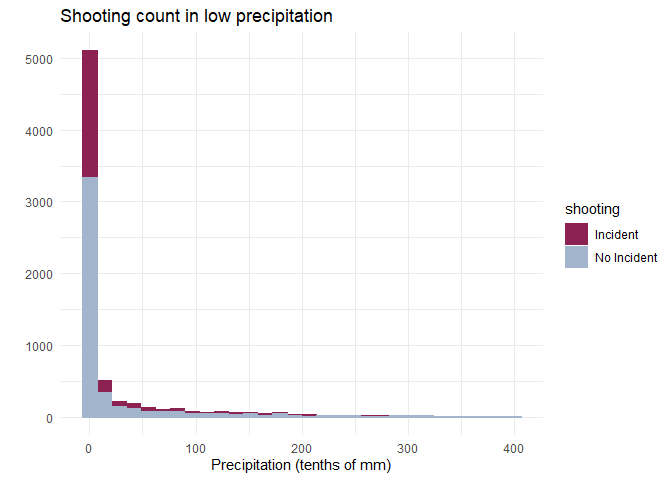
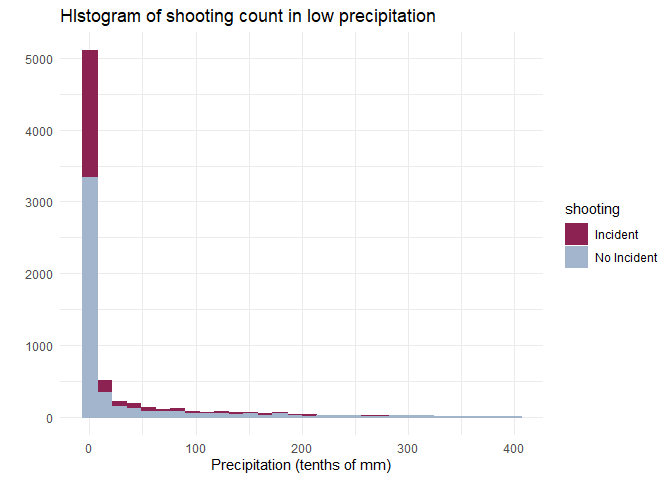
ainsel; edits based on babushka feedback lol

Changed region(s): [[0.0938, 0.0, 0.6562, 0.0625]]

diff --git a/Ainsel_Weather.md b/Ainsel_Weather.md
@@ -113,24 +113,22 @@ weather_shooting <- left_join(weather, shooting, by = c("month", "day", "year"))
 Plot of max/min temperature and whether there was a shooting:
 
 ``` r
-plot_temp_shooting <- weather_shooting %>% 
-  arrange(desc(shooting)) %>% 
-  ggplot(aes(x = tmin, y = tmax, color = shooting)) +
-  geom_point() +
-  scale_color_manual(values = c("violetred4", "lightsteelblue3")) +
+plot_temp_shoot_hist <- weather_shooting %>% 
+  drop_na(incident_key) %>% 
+  mutate(tmax = tmax / 10) %>% 
+  ggplot(aes(x = tmax)) +
+  geom_histogram(fill = "violetred4") +
   theme_minimal() +
-  xlab("Minimum daily temperature (tenths of degrees C)") +
-  ylab("Maximum daily temperature (tenths of degrees C)") +
-  ggtitle("Shooting incidence compared against daily temperature")
+  xlab("Maximum daily temperature (C)") +
+  ylab("Total shooting count") +
+  ggtitle("Histogram of total shooting count compared to maximum daily temperature")
 
-plot_temp_shooting
+plot_temp_shoot_hist
 ```
 
 ![](Ainsel_Weather_files/figure-gfm/unnamed-chunk-6-1.png)<!-- -->
 
-No visible correlation between temperature and shooting incidence.
-
-#### TEST statistical test to confirm this?
+#### TEST compare to the monthly chart, run a test idk
 
 Plot of precipitation and whether there was a shooting:
 
@@ -144,7 +142,7 @@ plot_prcp_low_shooting <- weather_shooting %>%
   theme_minimal() +
   xlab("Precipitation (tenths of mm)") +
   ylab("") +
-  ggtitle("Shooting count in low precipitation")
+  ggtitle("HIstogram of shooting count in low precipitation")
 
 plot_prcp_low_shooting
 ```
@@ -161,7 +159,7 @@ plot_prcp_high_shooting <- weather_shooting %>%
   theme_minimal() +
   ylab("") +
   xlab("Precipitation (tenths of mm)") +
-  ggtitle("Shooting count in high precipitation")
+  ggtitle("Histogram of shooting count in high precipitation")
 
 plot_prcp_high_shooting
 ```
@@ -185,7 +183,8 @@ plot_prcp_yesno <- weather_shooting %>%
   theme_minimal() +
   scale_fill_manual(values = c("violetred4", "lightsteelblue3")) +
   xlab("") +
-  ylab("Total Number of Days")
+  ylab("Total Number of Days") +
+  ggtitle("Bar plot of shooting incidence in no precipitation vs precipitation")
 
 plot_prcp_yesno
 ```
@@ -231,18 +230,6 @@ holidays <- holidays %>%
 Merge with shooting data:
 
 ``` r
-# OBSOLETE?
-# shooting_holidays <- full_join(shooting, holidays, by = c("month", "day", "year")) %>% 
-  # mutate(
-    # shooting = incident_key > 0,
-    # shooting = case_match(shooting,
-                          # TRUE ~ "Incident",
-                          # NA ~ "No Incident"),
-    # holiday_yn = is.na(holiday),
-    # holiday_yn = case_match(holiday_yn,
-                            # TRUE ~ "No Holiday",
-                            # FALSE ~ "Holiday"))
-
 holiday_shooting <- left_join(weather, holidays, by = c("month", "day", "year")) %>% 
   select(month, day, year, holiday) %>% 
   mutate(holiday = replace_na(holiday, "No Holiday"))
@@ -272,7 +259,8 @@ plot_holiday_yn <- holiday_shooting %>%
   theme_minimal() +
   scale_fill_manual(values = c("violetred4", "lightsteelblue3")) +
   xlab("") +
-  ylab("Total Number of Days")
+  ylab("Total Number of Days") +
+  ggtitle("Bar plot of shooting incidence on a federal holiday vs no holiday")
 
 plot_holiday_yn
 ```
@@ -285,8 +273,11 @@ Plot of individual holidays vs no holiday:
 
 ``` r
 plot_holiday_i <- holiday_shooting %>% 
+  filter(holiday != "No Holiday") %>% 
+  drop_na(incident_key) %>% 
+  filter(holiday != "Juneteenth") %>% 
   ggplot(aes(x = holiday, fill = shooting)) +
-  geom_bar(position = position_dodge()) +
+  geom_bar(position = position_dodge(), width = 0.8) +
   theme_minimal() +
   theme(axis.text.x = element_text(angle = 90, vjust = 0.5, hjust=1)) +
   scale_fill_manual(values = c("violetred4", "lightsteelblue3")) +
@@ -303,6 +294,8 @@ days than on holiday days. Will need to do further testing to confirm
 whether this is a significant association.
 
 #### TEST test the significance of this, ttest for yes/no holiday, unsure for other holidays. linear regression, probably?
+
+#### TODO holiday shootings / holiday *vs* not holiday shootings / not holiday (ex num/10 vs num/355) to compare ratios/averages
 
 ### COVID Analysis
 
@@ -704,6 +697,10 @@ plot_calendar_alldays
 ```
 
 ![](Ainsel_Weather_files/figure-gfm/unnamed-chunk-25-1.png)<!-- -->
+
+#### TODO weekend shootings / 2 *vs* weekday shootings / 5
+
+#### TODO compare weekends and holidays
 
 Plot of weekends vs week days:
 
